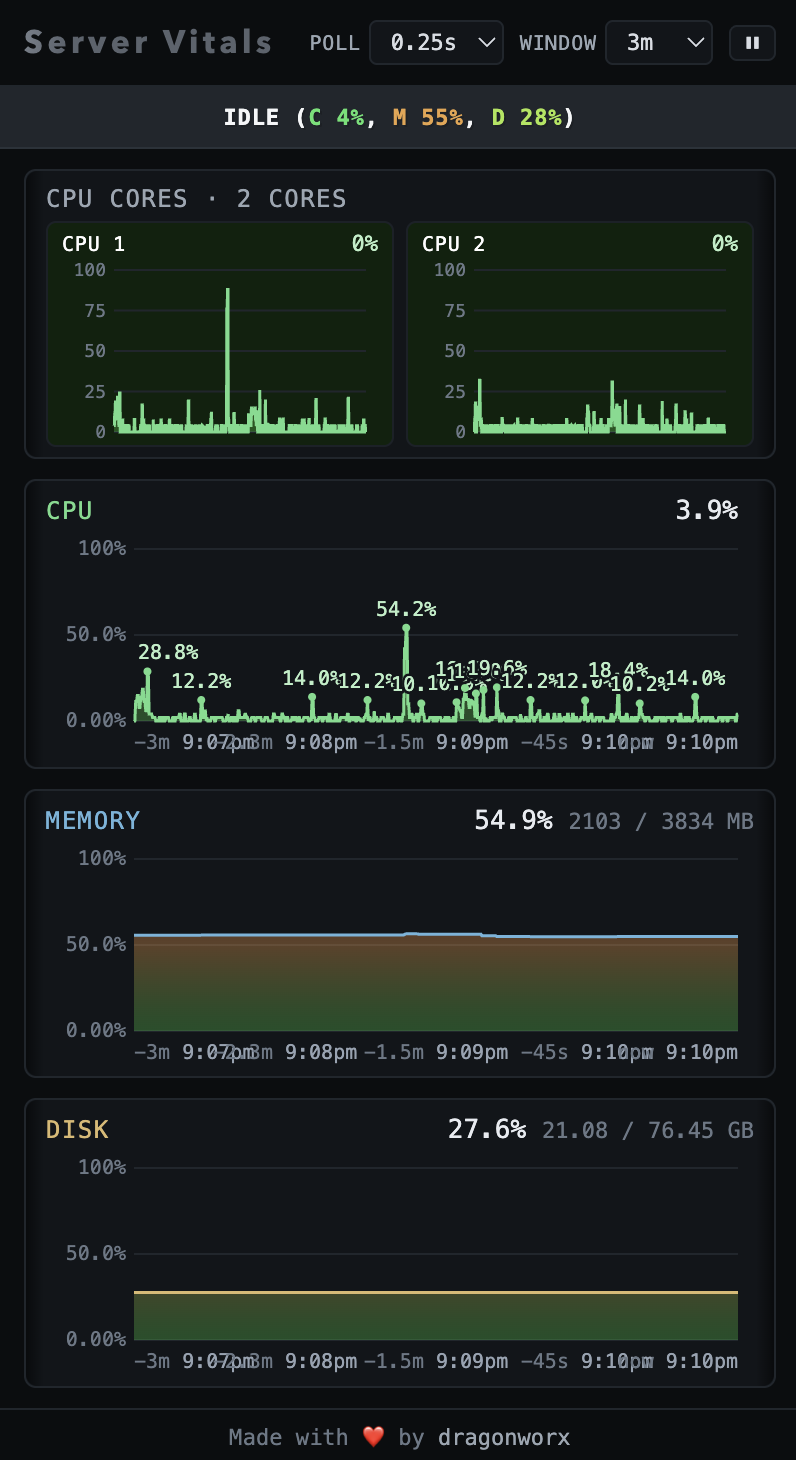
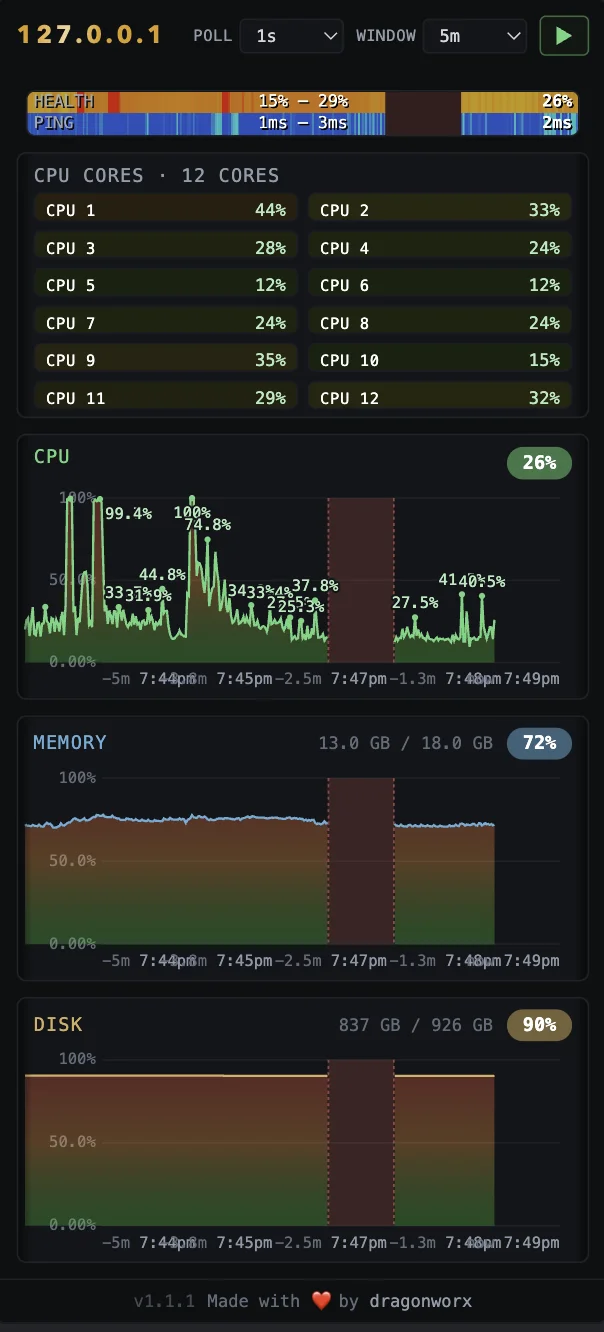
feat: update versioning and enhance footer with dynamic version display; improve layout for top strips

diff --git a/server-vitals.py b/server-vitals.py
@@ -15,6 +15,7 @@ import traceback
 from http.server import BaseHTTPRequestHandler, ThreadingHTTPServer
 from urllib.parse import parse_qs
 
+VERSION = "1.1.1"
 LISTEN = ("127.0.0.1", 9999)
 HOSTNAME = "www.fresneldigital.com"  # shown in browser tab; set "" to use system FQDN
 SAMPLE_INTERVAL = 0.25  # seconds between background CPU samples
@@ -481,7 +482,7 @@ STATS_HTML = r"""<!doctype html>
     font-family: ui-monospace, SFMono-Regular, Menlo, Consolas, monospace; }
   /* Fill the viewport: fixed header, panels share the remaining height evenly. */
   body { display: flex; flex-direction: column; overflow: hidden; }
-  header { flex: 0 0 auto; padding: 12px 18px; border-bottom: 1px solid #20262d;
+  header { flex: 0 0 auto; padding: 12px 18px; border-bottom: none;
     display: flex; gap: 18px; align-items: center; }
   header h1 { margin: 0; font-size: 18px; font-weight: 700; letter-spacing: .14em;
     font-family: "Avenir Next", "Segoe UI", system-ui, -apple-system,
@@ -517,11 +518,15 @@ STATS_HTML = r"""<!doctype html>
      Oldest sample at the left, newest at the leading edge (same direction as the
      graphs). Failed polls render as faint red gaps. Painted to a <canvas> that
      fills the strip (redrawn by renderHeat on every poll/resize). */
+  /* The two top strips share one rounded, bordered box that matches the panels.
+     overflow:hidden clips the canvases to the rounded corners. */
+  #topstrips { flex: 0 0 auto; margin: 12px 18px 0; background: #0e1216;
+    border: 1px solid #20262d; border-radius: 6px; overflow: hidden; }
   #statusbar { flex: 0 0 auto; height: var(--strip-h);
     background: #0e1216; border-bottom: none; }
   #statusbar #heatmap { display: block; width: 100%; height: 100%; }
   #latencybar { flex: 0 0 auto; height: var(--strip-h);
-    background: #0e1216; border-bottom: 1px solid #2b323a; }
+    background: #0e1216; border-bottom: none; }
   #latencybar #latencymap { display: block; width: 100%; height: 100%; }
   header .controls { margin-left: auto; display: flex; gap: 12px; align-items: center; }
   header .controls .ctl { display: inline-flex; align-items: center; gap: 5px;
@@ -627,6 +632,8 @@ STATS_HTML = r"""<!doctype html>
     font-size: 11px; color: #6c7886; border-top: 1px solid #20262d; }
   footer a { color: #9ba6b2; text-decoration: none; }
   footer a:hover { color: #d8dde3; text-decoration: underline; }
+  footer a.ver { color: #4b545e; margin-right: 8px; }
+  footer a.ver:hover { color: #6c7886; text-decoration: underline; }
   /* Portrait phones (iPhone ≈ 390px): let the header controls wrap below the
      title instead of overflowing, and tighten paddings/grids to fit the column. */
   @media (max-width: 480px) {
@@ -655,8 +662,10 @@ STATS_HTML = r"""<!doctype html>
       title="Pause polling" aria-label="Pause polling" aria-pressed="false"></button>
   </div>
 </header>
-<div id="statusbar"><canvas id="heatmap"></canvas></div>
-<div id="latencybar"><canvas id="latencymap"></canvas></div>
+<div id="topstrips">
+  <div id="statusbar"><canvas id="heatmap"></canvas></div>
+  <div id="latencybar"><canvas id="latencymap"></canvas></div>
+</div>
 <main>
   <section class="panel" id="cores-panel">
     <div class="panel-head">
@@ -686,7 +695,8 @@ STATS_HTML = r"""<!doctype html>
     <svg id="disk-svg"></svg>
   </section>
 </main>
-<footer>Made with ❤ by <a href="https://github.com/dragonworx/server-vitals"
+<footer><a class="ver" href="https://github.com/dragonworx/server-vitals"
+  target="_blank" rel="noopener noreferrer">v__VERSION__</a>Made with ❤ by <a href="https://github.com/dragonworx/server-vitals"
   target="_blank" rel="noopener noreferrer">dragonworx</a></footer>
 <script>
 (() => {
@@ -839,6 +849,16 @@ STATS_HTML = r"""<!doctype html>
   let cpuMin = Infinity;
   let cpuMax = -Infinity;
   let cpuLast = null;
+  // Smoothed min/max for the strip ranges. A new extreme is captured immediately,
+  // but otherwise each bound drifts toward the live value by RANGE_DECAY per sample.
+  // So a one-off spike pushes the range out, then averages back to typical values
+  // over the following polls instead of latching to the all-time extreme forever.
+  const RANGE_DECAY = 0.1;
+  function avgRange(lo, hi, v) {
+    hi = (v > hi) ? v : hi + RANGE_DECAY * (v - hi);
+    lo = (v < lo) ? v : lo + RANGE_DECAY * (v - lo);
+    return [lo, hi];
+  }
   // Wall-clock timestamp (ms) for each tick, kept parallel to series/heatData.
   // Timestamp-based x-positioning keeps the horizontal scale fixed to real time
   // so changing the poll interval never stretches or compresses the graphs.
@@ -869,19 +889,30 @@ STATS_HTML = r"""<!doctype html>
     if (heatData.length > MAX_POINTS) heatData.shift();
   }
   const STRIP_WHITE = 'rgba(255,255,255,1)';
-  const STRIP_PAD   = 6;  // logical px from each edge
-  // Left: label. Center: min–max colored segments (measured and truly centred).
-  // Right: current value right-aligned. No reserved slots or padding.
-  function drawStripLabel(ctx, cv, dpr, y, label, centerSegs, curText) {
-    const pad = Math.round(STRIP_PAD * dpr);
+  const STRIP_LABEL = 'rgba(176,186,196,.9)';  // light grey for the section label
+  const STRIP_PAD   = 6;  // logical px from each edge (fallback only)
+  // Align the strip text with the graph panels below: left label sits at the graph's
+  // left edge, right value at the graph's right edge. Insets measured against a panel SVG.
+  function stripInsets(cv) {
+    const ref = el('cpu-svg') || el('mem-svg') || el('disk-svg');
+    if (!ref) return { left: STRIP_PAD, right: STRIP_PAD };
+    const r = ref.getBoundingClientRect(), c = cv.getBoundingClientRect();
+    if (!r.width || !c.width) return { left: STRIP_PAD, right: STRIP_PAD };
+    return { left: Math.max(0, r.left - c.left), right: Math.max(0, c.right - r.right) };
+  }
+  // Left: section label (light grey). Center: min–max colored segments (truly centred).
+  // Right: current value right-aligned. Insets align with the graphs below.
+  function drawStripLabel(ctx, cv, dpr, y, label, centerSegs, curText, insets) {
+    const padL = Math.round((insets ? insets.left : STRIP_PAD) * dpr);
+    const padR = Math.round((insets ? insets.right : STRIP_PAD) * dpr);
     const boldFont = ctx.font;
     const normalFont = boldFont.replace('bold ', '');
     ctx.textAlign = 'left';
     ctx.font = normalFont;
-    ctx.fillStyle = STRIP_WHITE;
-    ctx.fillText(label, pad, y);
-    ctx.font = boldFont;
+    ctx.fillStyle = STRIP_LABEL;
+    ctx.fillText(label, padL, y);
     if (centerSegs.length) {
+      ctx.font = normalFont;
       const totalW = centerSegs.reduce((w, s) => w + ctx.measureText(s.text).width, 0);
       let x = (cv.width - totalW) / 2;
       for (const s of centerSegs) {
@@ -891,9 +922,10 @@ STATS_HTML = r"""<!doctype html>
       }
     }
     if (curText) {
+      ctx.font = boldFont;
       ctx.textAlign = 'right';
       ctx.fillStyle = STRIP_WHITE;
-      ctx.fillText(curText, cv.width - pad, y);
+      ctx.fillText(curText, cv.width - padR, y);
     }
     ctx.textAlign = 'left';
   }
@@ -924,7 +956,7 @@ STATS_HTML = r"""<!doctype html>
       ctx.fillStyle = (v == null || isNaN(v)) ? 'rgba(255,77,77,.20)' : heatHsl(v, 45);
       ctx.fillRect(x0, 0, x1 - x0, cv.height);
     }
-    ctx.font = 'bold ' + Math.round(13 * dpr) + 'px ui-monospace,monospace';
+    ctx.font = 'bold ' + Math.round(10.53 * dpr) + 'px ui-monospace,monospace';
     ctx.fillStyle = 'rgba(255,255,255,1)';
     ctx.textAlign = 'left';
     ctx.textBaseline = 'middle';
@@ -936,7 +968,7 @@ STATS_HTML = r"""<!doctype html>
       cpuMin === Infinity ? [] : [
         { text: cpuMin.toFixed(0) + '% – ' + cpuMax.toFixed(0) + '%', color: STRIP_WHITE },
       ],
-      cpuLast != null ? cpuLast.toFixed(0) + '%' : '');
+      cpuLast != null ? cpuLast.toFixed(0) + '%' : '', stripInsets(cv));
     ctx.shadowColor = 'transparent';
   }
 
@@ -964,7 +996,7 @@ STATS_HTML = r"""<!doctype html>
       ctx.fillStyle = (v == null || isNaN(v)) ? 'rgba(255,77,77,.20)' : latencyColor(v);
       ctx.fillRect(x0, 0, x1 - x0, cv.height);
     }
-    ctx.font = 'bold ' + Math.round(13 * dpr) + 'px ui-monospace,monospace';
+    ctx.font = 'bold ' + Math.round(10.53 * dpr) + 'px ui-monospace,monospace';
     ctx.fillStyle = 'rgba(255,255,255,1)';
     ctx.textAlign = 'left';
     ctx.textBaseline = 'middle';
@@ -978,7 +1010,7 @@ STATS_HTML = r"""<!doctype html>
       latencyMin === Infinity ? [] : [
         { text: latencyMin.toFixed(0) + 'ms – ' + latencyMax.toFixed(0) + 'ms', color: STRIP_WHITE },
       ],
-      latencyLast != null ? latencyLast.toFixed(0) + 'ms' : '');
+      latencyLast != null ? latencyLast.toFixed(0) + 'ms' : '', stripInsets(cv));
     ctx.shadowColor = 'transparent';
   }
 
@@ -1450,8 +1482,7 @@ STATS_HTML = r"""<!doctype html>
       push('mem',  j.memory_percent);
       push('disk', j.disk_percent);
       cpuLast = j.cpu_percent;
-      if (j.cpu_percent < cpuMin) cpuMin = j.cpu_percent;
-      if (j.cpu_percent > cpuMax) cpuMax = j.cpu_percent;
+      [cpuMin, cpuMax] = avgRange(cpuMin, cpuMax, j.cpu_percent);
 
       const cores = Array.isArray(j.cpu_cores) ? j.cpu_cores : [];
       if (cores.length) {
@@ -1500,8 +1531,7 @@ STATS_HTML = r"""<!doctype html>
 
     if (latencyMs != null) {
       latencyLast = latencyMs;
-      if (latencyMs < latencyMin) latencyMin = latencyMs;
-      if (latencyMs > latencyMax) latencyMax = latencyMs;
+      [latencyMin, latencyMax] = avgRange(latencyMin, latencyMax, latencyMs);
     }
     latencyData.push(latencyMs);
     if (latencyData.length > MAX_POINTS) latencyData.shift();
@@ -1549,9 +1579,12 @@ STATS_HTML = r"""<!doctype html>
 </html>
 """
 
+# Single source of truth for the version: stamp it into the dashboard footer once.
+STATS_HTML = STATS_HTML.replace("__VERSION__", VERSION)
+
 
 class Handler(BaseHTTPRequestHandler):
-    server_version = "Server-Vitals/1.1.1"
+    server_version = "Server-Vitals/" + VERSION
     # HTTP/1.1 keeps the connection alive so the dashboard's frequent polls reuse
     # one TCP connection instead of reconnecting every tick. Safe because every
     # response carries a Content-Length.
